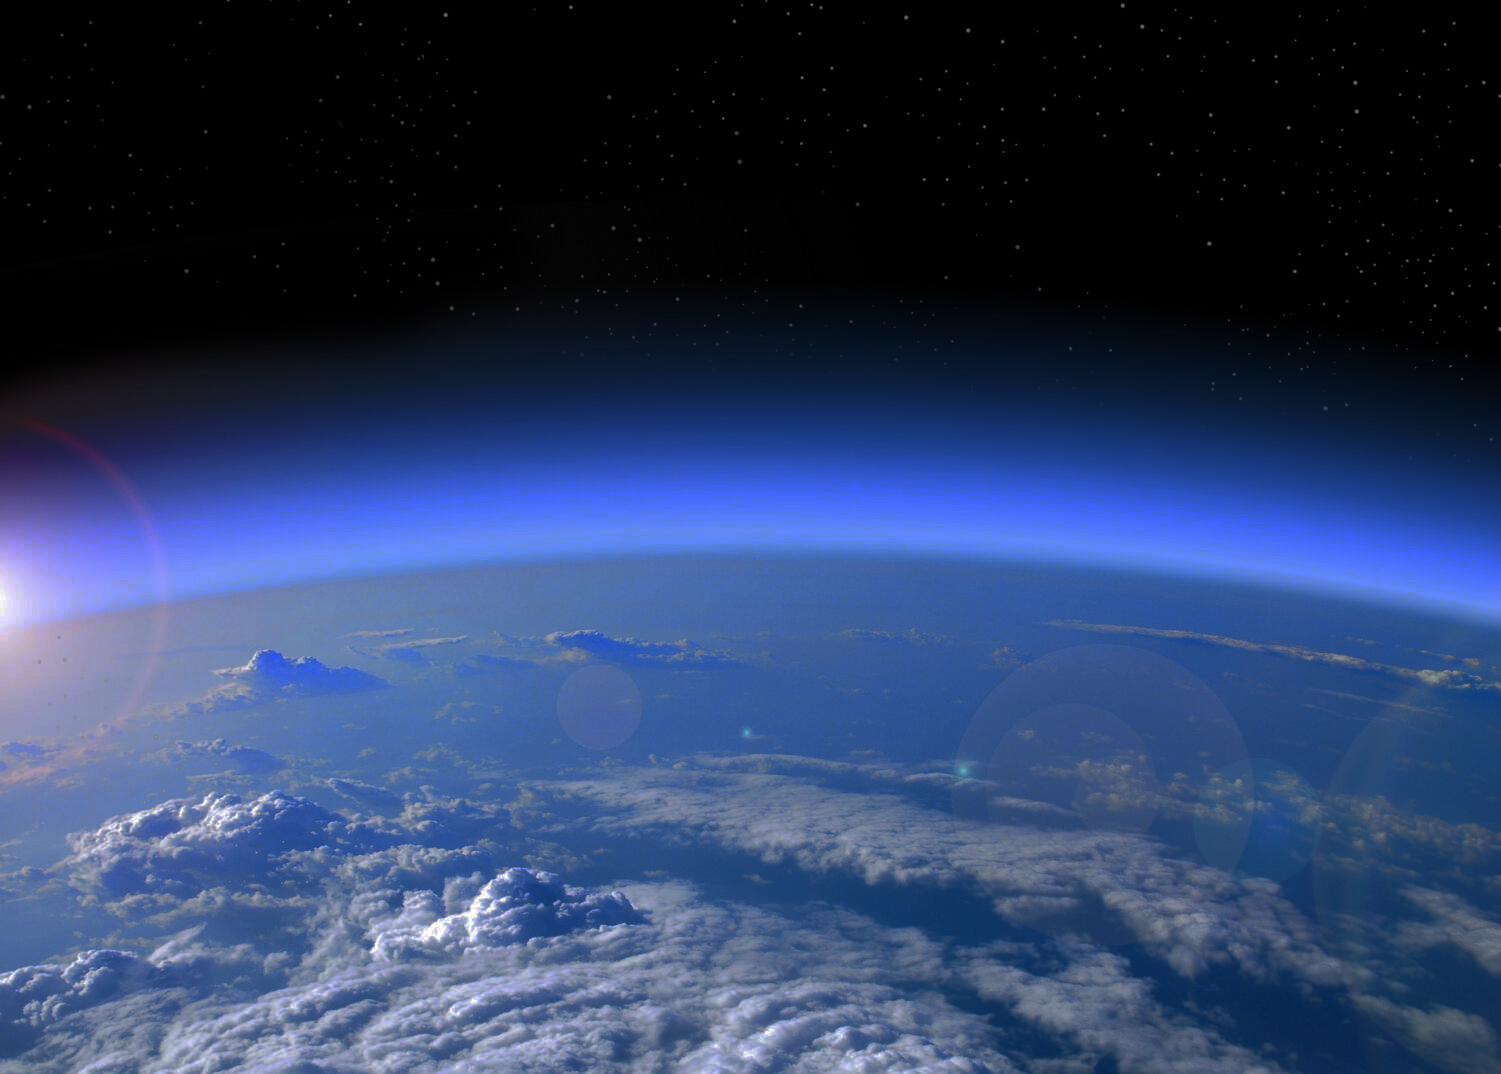
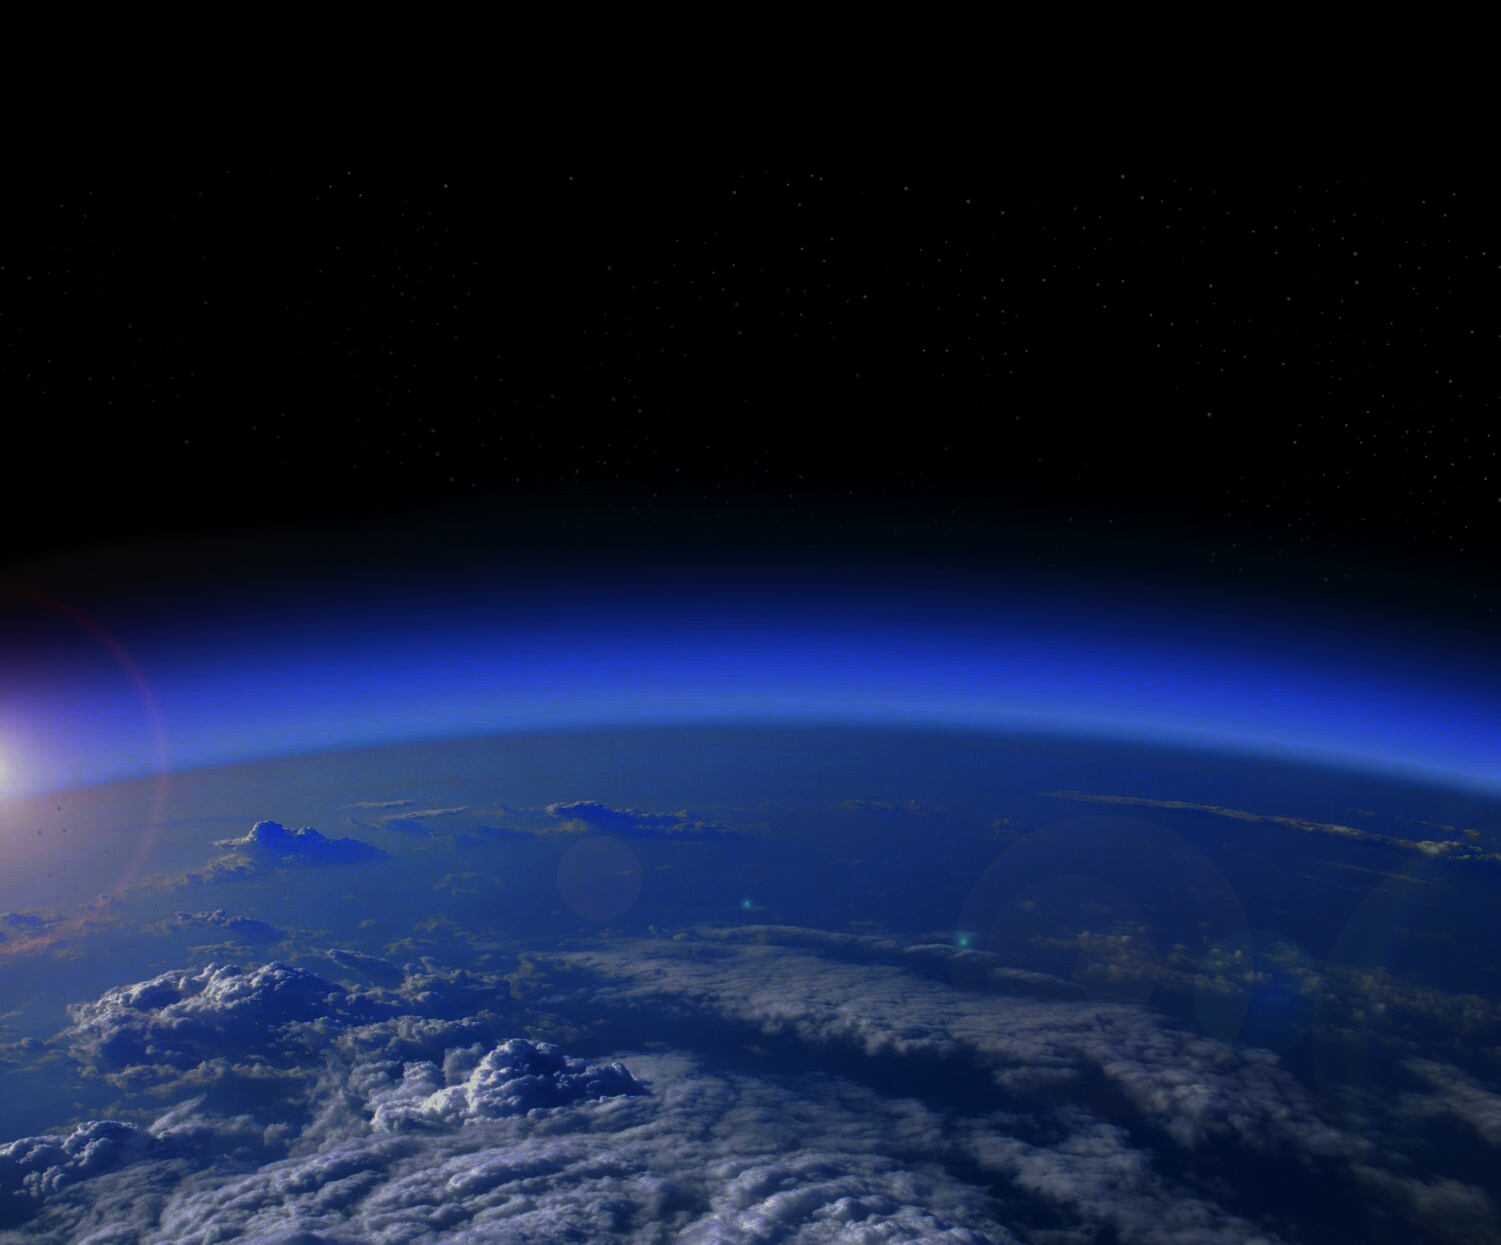
homepage updated

diff --git a/src/app/footer/footer.component.html b/src/app/footer/footer.component.html
@@ -1,99 +1,103 @@
 <!DOCTYPE html>
 <html lang="en">
-<head>
-  <title>Footer Design</title>
-  <meta charset="utf-8">
-  <meta name="viewport" content="width=device-width, initial-scale=1">
-  <link rel="stylesheet" href="footer.component.css">
-  <link rel="stylesheet" type="text/css" href="https://cdnjs.cloudflare.com/ajax/libs/font-awesome/5.15.1/css/all.min.css">
-  <link rel="stylesheet" href="https://fonts.googleapis.com/css2?family=Poppins:wght@300;400;500;600;700&display=swap">
-</head>
-<body>
-  <footer class="footer">
-  	 <div class="container">
-  	 	<div class="row">
-  	 		<div class="footer-col">
-  	 			<h4>overview of climate change</h4>
-  	 			<ul>
-  	 				<li><a href="#">insight about our planet</a></li>
-  	 				<li><a href="#">overview of climate change</a></li>
-  	 				<li><a href="#">what is climate change?</a></li>
-  	 				<li><a href="#">related resources</a></li>
-  	 			</ul>
-  	 		</div>
-  	 		<div class="footer-col">
-  	 			<h4>current issue</h4>
-  	 			<ul>
-  	 				<li><a href="#">climate change in the philippines</a></li>
-  	 				<li><a href="#">introduction</a></li>
-  	 				<li><a href="#">climate change scenarios</a></li>
-  	 				<li><a href="#">clmate change and observed trends</a></li>
-  	 				<li><a href="#">climate projections</a></li>
-                    <li><a href="#">impact of climate change</a></li>
-  	 				<li><a href="#">what you can do</a></li>
-  	 				<li><a href="#">conclusions</a></li>
-  	 			</ul>
-  	 		</div>
-  	 		<div class="footer-col">
-  	 			<h4>cases</h4>
-  	 			<ul>
-  	 				<li><a href="#">Problems</a></li>
-  	 				<li><a href="#">Cases</a></li>
-  	 				<li><a href="#">Effects</a></li>
-  	 			</ul>
-  	 		</div>
-               <div class="footer-col">
-                <h4>news</h4>
-                <ul>
-                    <li><a href="#">News & Features</a></li>
-                </ul>
-            </div>
-            <div class="footer-col">
-                <h4>Solutions</h4>
-                <ul>
-                    <li><a href="#">should we take action?</a></li>
-                    <li><a href="#">solutions</a></li>
-                    <li><a href="#">assessment</a></li>
-                </ul>
-            </div>
-            <div class="footer-col">
-                <h4>history</h4>
-                <ul>
-                    <li><a href="#">history</a></li>
-                    <li><a href="#">assessment</a></li>
-                </ul>
-            </div>
-            <div class="footer-col">
-                <h4>explore</h4>
-                <ul>
-                    <li><a href="#">images</a></li>
-                    <li><a href="#">videos</a></li>
-                </ul>
-            </div>
-            <div class="footer-col">
-                <h4>game</h4>
-                <ul>
-                    <li><a href="#">climate escape</a></li>
-                </ul>
-            </div>
-            <div class="footer-col">
-                <h4>about us</h4>
-                <ul>
-                    <li><a href="#">maafia devs</a></li>
-                </ul>
-            </div>
-  	 	</div>
-  	 </div>
-       <div class="footer">
-        <div class="social">
-            <a href="#"><i class="fab fa-facebook-f"></i></a>
-            <a href="#"><i class="fab fa-twitter"></i></a>
-            <a href="#"><i class="fab fa-instagram"></i></a>
-            <a href="#"><i class="fab fa-linkedin-in"></i></a>
-            <h6>copyright @2023</h6>
+  <head>
+    <title>Footer Design</title>
+    <meta charset="utf-8" />
+    <meta name="viewport" content="width=device-width, initial-scale=1" />
+    <link rel="stylesheet" href="footer.component.css" />
+    <link
+      rel="stylesheet"
+      type="text/css"
+      href="https://cdnjs.cloudflare.com/ajax/libs/font-awesome/5.15.1/css/all.min.css"
+    />
+    <link
+      rel="stylesheet"
+      href="https://fonts.googleapis.com/css2?family=Poppins:wght@300;400;500;600;700&display=swap"
+    />
+  </head>
+  <body>
+    <footer class="footer">
+      <div class="container">
+        <div class="row">
+          <div class="footer-col">
+            <h4>overview of climate change</h4>
+            <ul>
+              <li><a href="#">insight about our planet</a></li>
+              <li><a href="#">overview of climate change</a></li>
+              <li><a href="#">what is climate change?</a></li>
+              <li><a href="#">related resources</a></li>
+            </ul>
+          </div>
+          <div class="footer-col">
+            <h4>current issue</h4>
+            <ul>
+              <li><a href="#">climate change in the philippines</a></li>
+              <li><a href="#">introduction</a></li>
+              <li><a href="#">climate change scenarios</a></li>
+              <li><a href="#">clmate change and observed trends</a></li>
+              <li><a href="#">climate projections</a></li>
+              <li><a href="#">impact of climate change</a></li>
+              <li><a href="#">what you can do</a></li>
+              <li><a href="#">conclusions</a></li>
+            </ul>
+          </div>
+          <div class="footer-col">
+            <h4>cases</h4>
+            <ul>
+              <li><a href="#">Problems</a></li>
+              <li><a href="#">Cases</a></li>
+              <li><a href="#">Effects</a></li>
+            </ul>
+          </div>
+          <div class="footer-col">
+            <h4>news</h4>
+            <ul>
+              <li><a href="#">News & Features</a></li>
+            </ul>
+          </div>
+          <div class="footer-col">
+            <h4>Solutions</h4>
+            <ul>
+              <li><a href="#">should we take action?</a></li>
+              <li><a href="#">solutions</a></li>
+              <li><a href="#">assessment</a></li>
+            </ul>
+          </div>
+          <div class="footer-col">
+            <h4>history</h4>
+            <ul>
+              <li><a href="#">history</a></li>
+              <li><a href="#">assessment</a></li>
+            </ul>
+          </div>
+          <div class="footer-col">
+            <h4>explore</h4>
+            <ul>
+              <li><a href="#">images</a></li>
+              <li><a href="#">videos</a></li>
+            </ul>
+          </div>
+          <div class="footer-col">
+            <h4>game</h4>
+            <ul>
+              <li><a href="#">climate escape</a></li>
+            </ul>
+          </div>
+          <div class="footer-col">
+            <h4>about us</h4>
+            <ul>
+              <li><a href="#">maafia devs</a></li>
+            </ul>
+          </div>
         </div>
-    </div>
-  </footer>
-
-</body>
+        <div class="social">
+          <a href="#"><i class="fab fa-facebook-f"></i></a>
+          <a href="#"><i class="fab fa-twitter"></i></a>
+          <a href="#"><i class="fab fa-instagram"></i></a>
+          <a href="#"><i class="fab fa-linkedin-in"></i></a>
+          <h6>copyright @2023</h6>
+        </div>
+      </div>
+    </footer>
+  </body>
 </html>

diff --git a/src/app/footer/footer.component.css b/src/app/footer/footer.component.css
@@ -8,7 +8,9 @@ body{
 	box-sizing: border-box;
 }
 .footer{
-    background: black
+    background-image: url(/assets/homeimages/earthfooter.png);
+	background-repeat: no-repeat;
+	height: auto;
 }
 .container{
 	max-width: 1170px;
